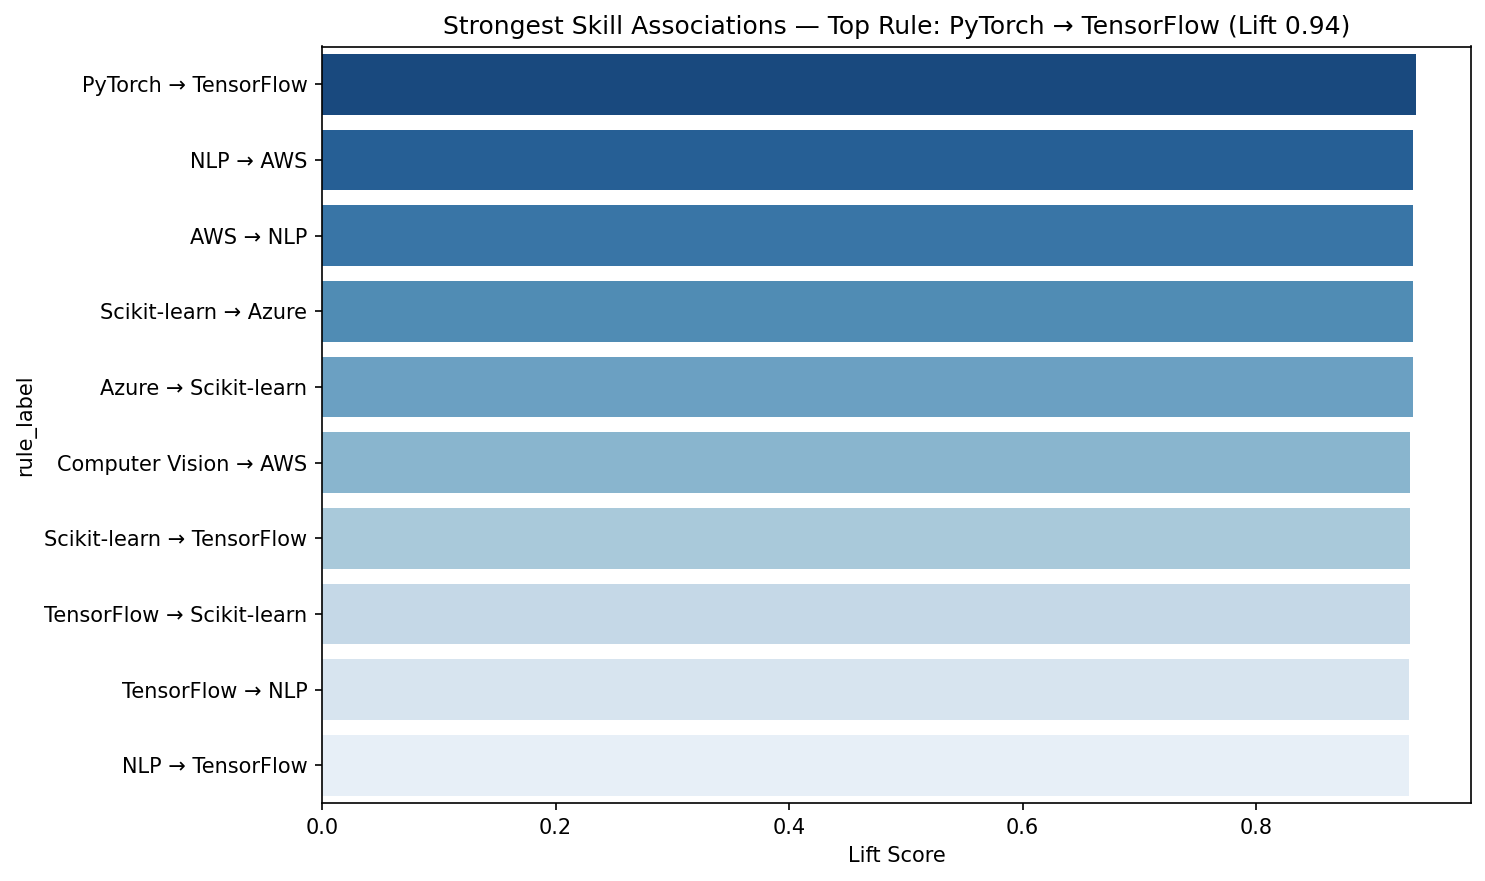
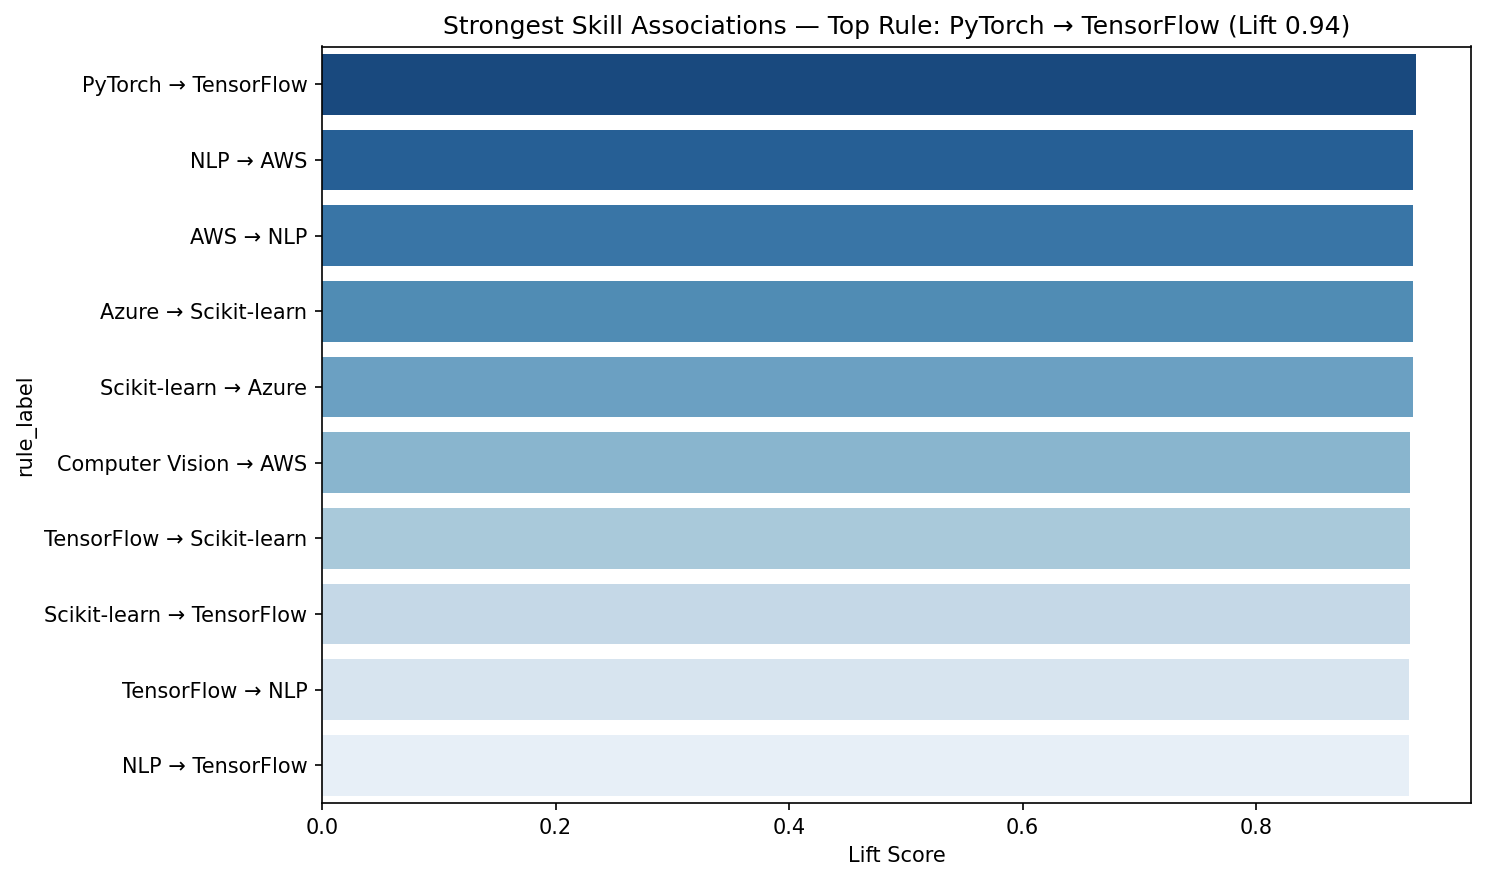
feat: add skill association lift heatmap visualization

diff --git a/src/run_apriori.py b/src/run_apriori.py
@@ -136,6 +136,24 @@ def run_analysis():
             plt.close()
             print(f"Saved chart to {chart_path}")
             
+            # Generate Heatmap
+            print("\nGenerating heatmap visualization...")
+            plt.figure(figsize=(10,8))
+            
+            # Pivot rules_filtered into a skill x skill lift matrix
+            pivot = rules_filtered.pivot_table(index='antecedents', columns='consequents', values='lift')
+            
+            sns.heatmap(pivot, annot=True, cmap='Blues', fmt='.2f', cbar_kws={'label': 'Lift Score'})
+            plt.title("Skill Association Lift Heatmap")
+            plt.xlabel("Consequents")
+            plt.ylabel("Antecedents")
+            plt.tight_layout()
+            
+            heatmap_path = chart_dir / "07_mba_rules_heatmap.png"
+            plt.savefig(heatmap_path, dpi=150, bbox_inches='tight')
+            plt.close()
+            print(f"Saved heatmap to {heatmap_path}")
+            
         except Exception as e:
             print(f"Could not generate association rules or visualization: {e}")
 